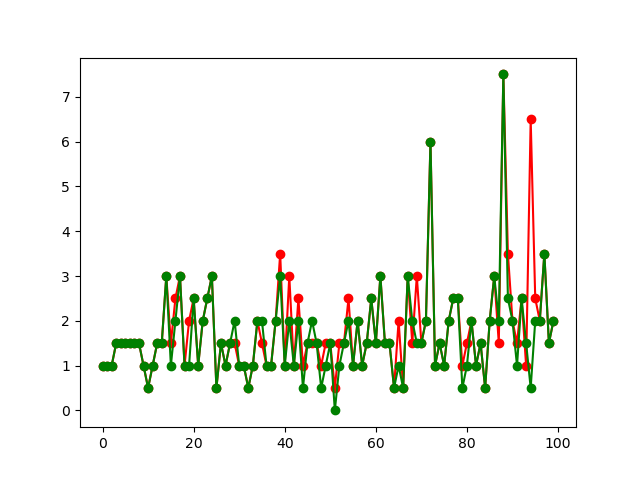
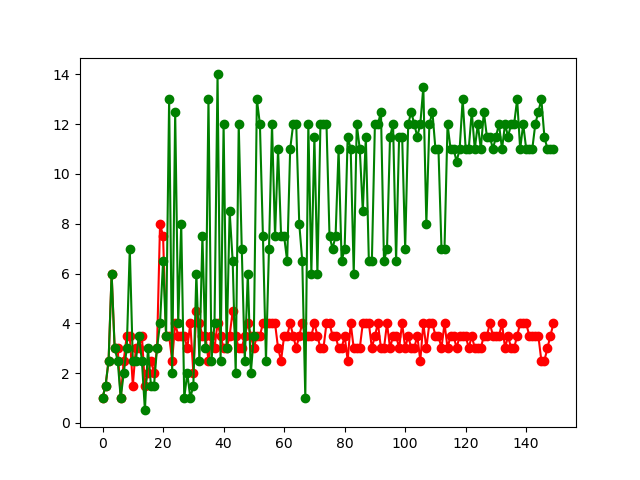
Improved graphics

diff --git a/wide_loop.py b/wide_loop.py
@@ -106,12 +106,12 @@ if __name__== "__main__":
     #----------------------------------------------------------------
     #--------------------------Globals-------------------------------
     #----------------------------------------------------------------
-    n_episodes = 200
+    n_episodes = 150
     ga_frequency = 5   #How often the GA algorithm runs. May want to add in a parameter concerning the age of each model.
     
     #Seed randoms
-    random.seed(1234)
-    np.random.seed(1234)
+    random.seed(12345)  #1234
+    np.random.seed(12345)    #1234
     crossover_chance = 1
     #save_file = "regular_json.json"
     save_file = "crossover_json.json"
@@ -137,7 +137,7 @@ if __name__== "__main__":
     env = vector_grid_goal.CustomEnv(grid_dims=grid_dims, player_location=player_location, goal_location=goal_location, map=map)
     
     #Make action space deterministic
-    env.action_space.np_random.seed(seed=1)
+    env.action_space.np_random.seed(seed=3)
     
     n_observations = env.observation_space.n
     n_actions = env.action_space.n
@@ -150,9 +150,9 @@ if __name__== "__main__":
     for i in range(2):
         model_dict[i] = {}
         #model_dict[i]['n_episodes'] = 20000      #number of episode we will run
-        model_dict[i]['max_iter_episode'] = 10  #maximum of iteration per episode
-        model_dict[i]['exploration_proba'] = 0.5   #initialize the exploration probability to 1
-        model_dict[i]['exploration_decreasing_decay'] = 0.001    #exploartion decreasing decay for exponential decreasing
+        model_dict[i]['max_iter_episode'] = 20  #maximum of iteration per episode
+        model_dict[i]['exploration_proba'] = 0.3   #Base 1#initialize the exploration probability to 1
+        model_dict[i]['exploration_decreasing_decay'] = 0.01    #Base 0.001 #exploration decreasing decay for exponential decreasing
         model_dict[i]['min_exploration_proba'] = 0.01    # minimum of exploration proba
         model_dict[i]['gamma'] = 0.99            #discounted factor
         model_dict[i]['lr'] = 0.1                 #learning rate
@@ -524,8 +524,10 @@ if __name__== "__main__":
                             parent['Q_table'][sa_pair[0], sa_pair[1]] = max(max_Q * 1.2, 1)
                         
                         #Normalize matrix
-                        normalize(parent['Q_table'], axis=1, norm='l1')
-                        normalize(parent['Q_table'], axis=0, norm='l1')
+                        #Normalize rows
+                        parent['Q_table'] = normalize(parent['Q_table'], axis=1, norm='l1')
+                        #Normalize columns
+                        #parent['Q_table'] = normalize(parent['Q_table'], axis=0, norm='l1')
                         
                         #print("Post Q table")
                         #print(parent['Q_table'])

diff --git a/compare_printer.py b/compare_printer.py
@@ -30,12 +30,19 @@ for reward_series in regular_dict["model_rewards"]:
 for reward_series in crossover_dict["model_rewards"]:
     plt.plot(reward_series, color='green', marker='o', label='With Modified Crossover')
 '''
+
+kernel_size = 10
+kernel = np.ones(kernel_size) / kernel_size
+
 #Plot average
 reward_series = []
 for i in range(len(regular_dict["model_rewards"][0])):
     i_series = [x[i] for x in regular_dict['model_rewards']]
     average = sum(i_series) / len(i_series)
     reward_series.append(average)
+    
+#Take running average
+reward_series = np.convolve(reward_series, kernel, mode='same')
 plt.plot(reward_series, color='red', marker='o', label='Baseline')
 
 
@@ -44,8 +51,15 @@ for i in range(len(crossover_dict["model_rewards"][0])):
     i_series = [x[i] for x in crossover_dict['model_rewards']]
     average = sum(i_series) / len(i_series)
     reward_series.append(average)
+    
+#Take running average
+reward_series = np.convolve(reward_series, kernel, mode='same')
 plt.plot(reward_series, color='green', marker='o', label='With Modified Crossover')   
 
-
+#Other characteristics of plot
+plt.title("Epoch vs Reward, Method Comparison")
+plt.legend(loc='upper left')
+plt.xlabel("Episode")
+plt.ylabel("Population Average Reward")
   
 plt.savefig("Comparison Plot.png") 

diff --git a/working test/compare_printer.py b/working test/compare_printer.py
@@ -6,6 +6,7 @@
 #Imports
 import matplotlib.pyplot as plt
 import json
+import numpy as np
 
 
 
@@ -43,7 +44,7 @@ for i in range(len(regular_dict["model_rewards"][0])):
     
 #Take running average
 reward_series = np.convolve(reward_series, kernel, mode='same')
-plt.plot(reward_series, color='red', marker='o', label='Baseline')
+plt.plot(reward_series[:-kernel_size], color='red', marker='o', label='Baseline')
 
 
 reward_series = []
@@ -54,12 +55,12 @@ for i in range(len(crossover_dict["model_rewards"][0])):
     
 #Take running average
 reward_series = np.convolve(reward_series, kernel, mode='same')
-plt.plot(reward_series, color='green', marker='o', label='With Modified Crossover')   
+plt.plot(reward_series[:-kernel_size], color='green', marker='o', label='With Modified Crossover')   
 
 #Other characteristics of plot
-plt.title("Epoch vs Reward, Method Comparison")
+plt.title("Episode vs Reward, Method Comparison")
 plt.legend(loc='upper left')
 plt.xlabel("Episode")
-plt.ylabel("Episode Reward")
+plt.ylabel("Population Average Reward")
   
 plt.savefig("Comparison Plot.png") 
